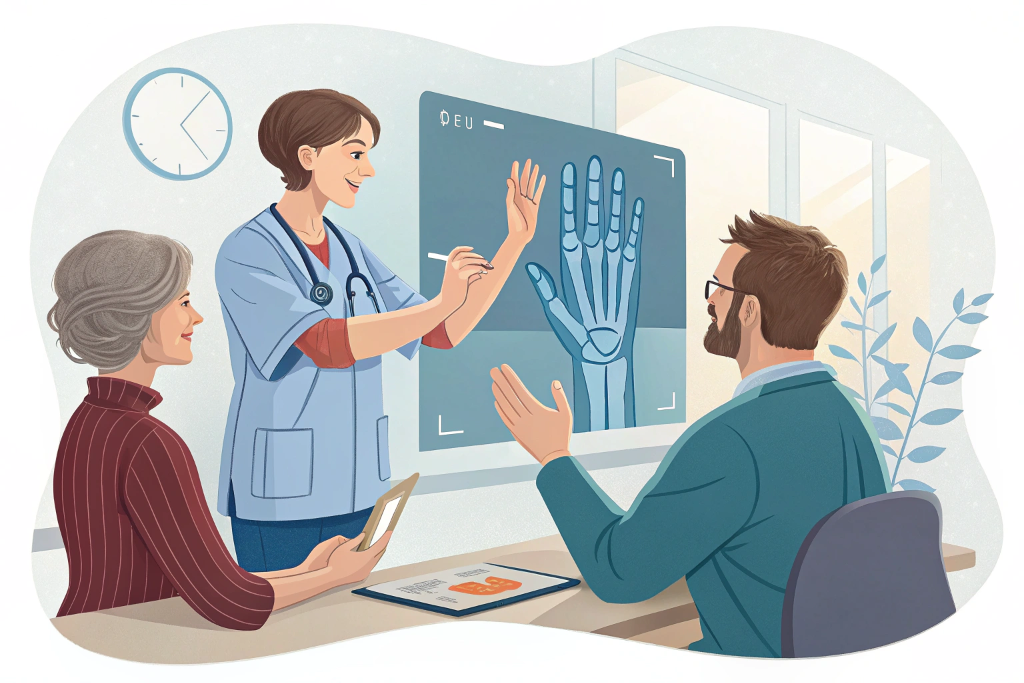
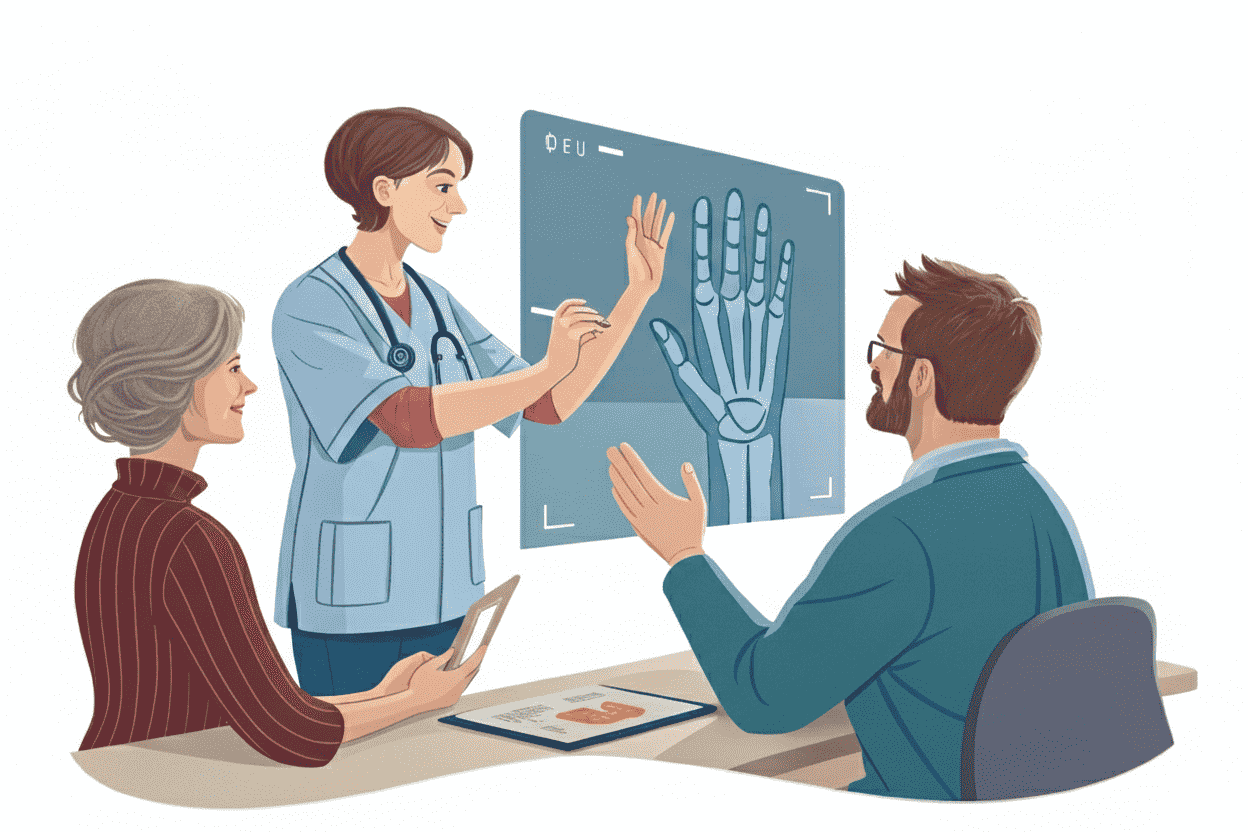
fix minor fixes

diff --git a/src/components/Projects.tsx b/src/components/Projects.tsx
@@ -72,32 +72,6 @@ export const Projects = () => {
 							key={project.id}
 							className={`relative ${commonStyles.card.base} ${commonStyles.card.hover}`}
 						>
-							{/* Top right - GitHub & demo links */}
-							<div className="absolute top-4 right-4 z-10 flex space-x-2">
-								{project.links?.github && (
-									<a
-										href={project.links.github}
-										target="_blank"
-										rel="noopener noreferrer"
-										className="w-9 h-9 rounded-full bg-white/90 backdrop-blur-sm hover:bg-gray-800 hover:text-white flex items-center justify-center text-gray-700 transition-colors shadow-sm"
-										aria-label="GitHub"
-									>
-										<FaGithub className="w-5 h-5" />
-									</a>
-								)}
-								{project.links?.demo && (
-									<a
-										href={project.links.demo}
-										target="_blank"
-										rel="noopener noreferrer"
-										className="w-9 h-9 rounded-full bg-white/90 backdrop-blur-sm hover:bg-gray-800 hover:text-white flex items-center justify-center text-gray-700 transition-colors shadow-sm"
-										aria-label="Live Demo"
-									>
-										<FiExternalLink className="w-5 h-5" />
-									</a>
-								)}
-							</div>
-
 							{/* Image */}
 							<div className="relative h-48 overflow-hidden">
 								<div className="relative w-full h-full">
@@ -182,10 +156,13 @@ export const Projects = () => {
 
 				{/* View All Projects / Browse All - Minimalist design */}
 				<div className="flex flex-wrap justify-center gap-3 mt-10">
-					<a href="/projects">
+					<a
+						href="/projects"
+						className="cursor-pointer"
+					>
 						<Button
 							variant="outline"
-							className="font-medium px-5 py-2 rounded-md transition-all text-sm hover:bg-gray-50"
+							className="cursor-pointer font-medium px-5 py-2 rounded-md transition-all text-sm hover:bg-gray-50"
 							style={{
 								borderColor: colors.brand.dark,
 								color: colors.brand.dark,
@@ -209,7 +186,7 @@ export const Projects = () => {
 
 						<button
 							onClick={openContactModal}
-							className="group inline-flex items-center justify-center bg-white font-medium px-5 py-2 rounded-md text-sm transition-all hover:bg-gray-50"
+							className="cursor-pointer group inline-flex items-center justify-center bg-white font-medium px-5 py-2 rounded-md text-sm transition-all hover:bg-gray-50"
 							style={{ color: colors.brand.dark }}
 						>
 							Start a Conversation

diff --git a/src/components/Navbar/index.tsx b/src/components/Navbar/index.tsx
@@ -52,7 +52,7 @@ export const Navbar = () => {
 				</div>
 
 				{/* Right Side: Desktop Menu */}
-				<div className="hidden md:flex items-center gap-6">
+				<div className="hidden md:flex items-center gap-3">
 					<div
 						className="relative"
 						onMouseEnter={handleMouseEnter}
@@ -68,7 +68,7 @@ export const Navbar = () => {
 							<DropdownMenuTrigger asChild>
 								<Button
 									variant="ghost"
-									className="text-sm text-gray-600 hover:text-primary font-bold gap-1 px-4 h-10"
+									className="text-sm text-gray-600 hover:text-primary font-bold gap-1 px-2 h-10"
 									asChild
 								>
 									{/* Link is inside asChild; Navigates on click */}
@@ -108,13 +108,13 @@ export const Navbar = () => {
 
 					<Link
 						href="/projects"
-						className="text-sm text-gray-600 hover:text-primary font-bold py-0.5 pb-1 inline-block leading-normal"
+						className="text-sm text-gray-600 hover:text-primary font-bold py-0.5 pb-1 px-2 inline-block leading-normal"
 					>
 						Projects
 					</Link>
 					<Link
 						href="/experience"
-						className="text-sm text-gray-600 hover:text-primary font-bold"
+						className="text-sm text-gray-600 hover:text-primary font-bold px-2"
 					>
 						Experience
 					</Link>

diff --git a/src/app/globals.css b/src/app/globals.css
@@ -143,22 +143,29 @@
 	white-space: nowrap;
 }
 
-/* Writing animation for signature */
+/* Writing animation for signature: ~4.5s write + 5s pause + reset (11s total) */
 @keyframes writing {
-	0%,
-	90%,
-	100% {
+	0% {
 		width: 0;
 		border-right: 2px solid transparent;
 	}
-	5% {
+	2% {
 		border-right: 2px solid hsl(var(--primary));
 	}
-	80% {
+	40.9% {
 		width: 100%;
 		border-right: 2px solid hsl(var(--primary));
 	}
-	85% {
+	86.4% {
+		width: 100%;
+		border-right: 2px solid hsl(var(--primary));
+	}
+	91% {
+		border-right: 2px solid transparent;
+	}
+	95%,
+	100% {
+		width: 0;
 		border-right: 2px solid transparent;
 	}
 }
@@ -185,10 +192,10 @@
 	width: 0;
 	overflow: hidden;
 	white-space: nowrap;
-	animation: writing 6s infinite;
+	animation: writing 11s infinite;
 }
 
 .signature-static {
 	visibility: hidden;
-	animation: delay-appear 0.1s 3s forwards;
+	animation: delay-appear 0.1s 4.5s forwards;
 }

diff --git a/src/lib/theme-utils.ts b/src/lib/theme-utils.ts
@@ -101,8 +101,8 @@ export const commonStyles = {
 
 	// Button styles
 	button: {
-		primary: "bg-gradient-to-r from-[#142240] to-[#3D5176] hover:from-[#142240] hover:to-[#142240] text-white font-medium rounded-md shadow-lg shadow-[#142240]/20 transition-all duration-300 hover:shadow-[#142240]/30",
-		secondary: "bg-white text-[#142240] border border-gray-200 hover:bg-gray-50 transition-all duration-300",
+		primary: "cursor-pointer bg-gradient-to-r from-[#142240] to-[#3D5176] hover:from-[#142240] hover:to-[#142240] text-white font-medium rounded-md shadow-lg shadow-[#142240]/20 transition-all duration-300 hover:shadow-[#142240]/30",
+		secondary: "cursor-pointer bg-white text-[#142240] border border-gray-200 hover:bg-gray-50 transition-all duration-300",
 	},
 
 	// Section styles

diff --git a/src/components/Footer.tsx b/src/components/Footer.tsx
@@ -45,7 +45,7 @@ export const Footer = () => {
 								</li>
 								<li>
 									<Link
-										href="/#projects"
+										href="/projects"
 										className="text-gray-400 hover:text-white transition-colors"
 									>
 										Projects
